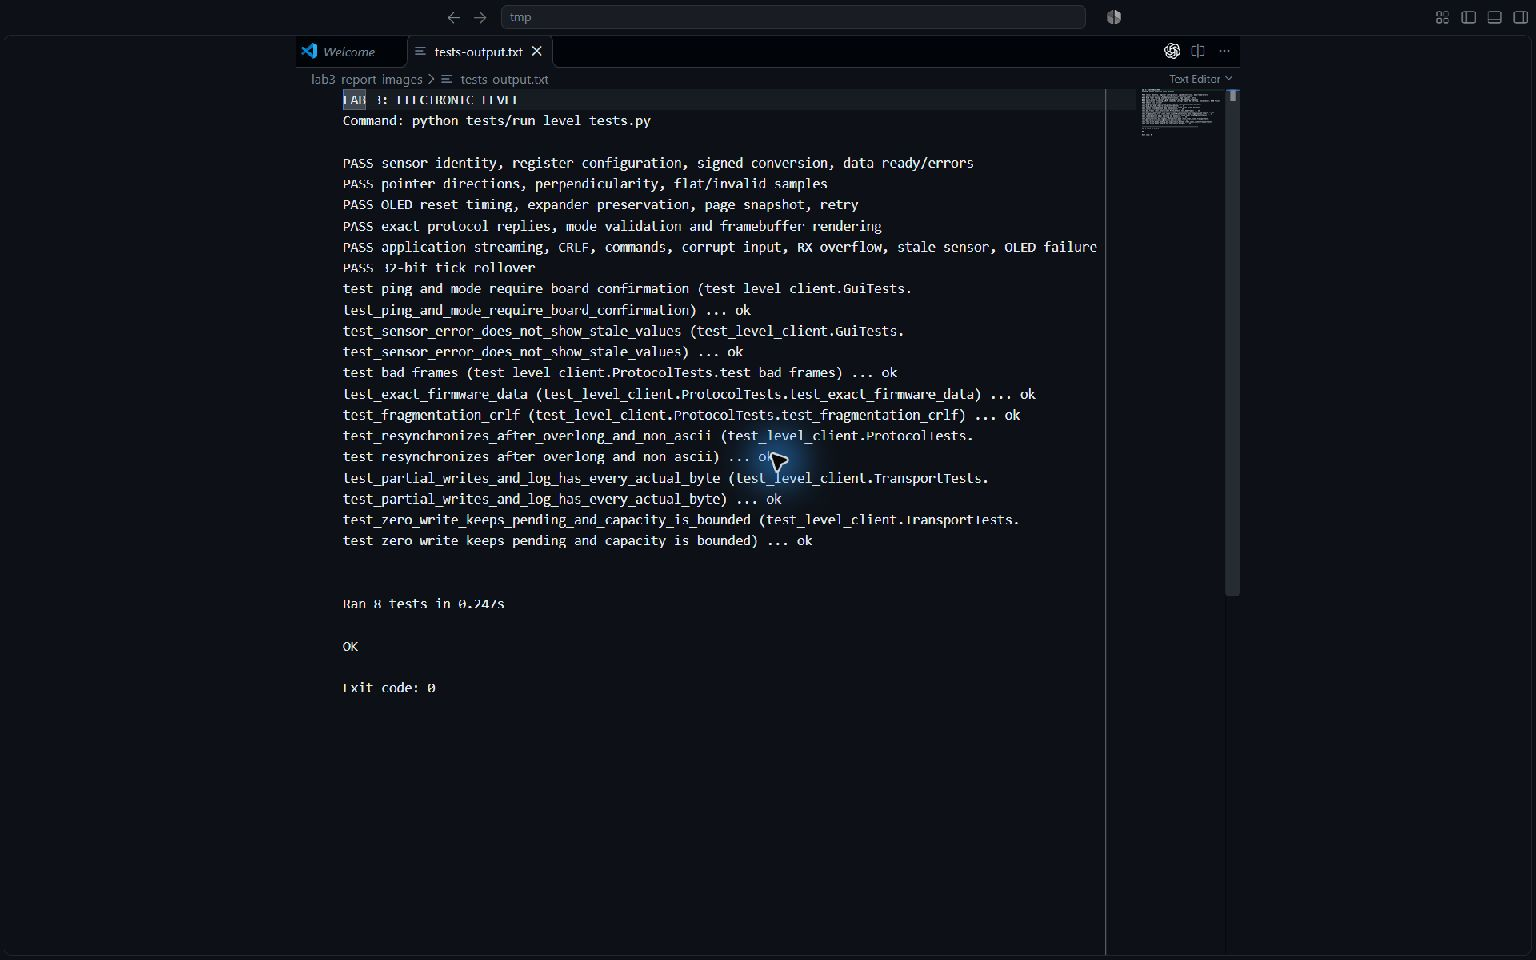
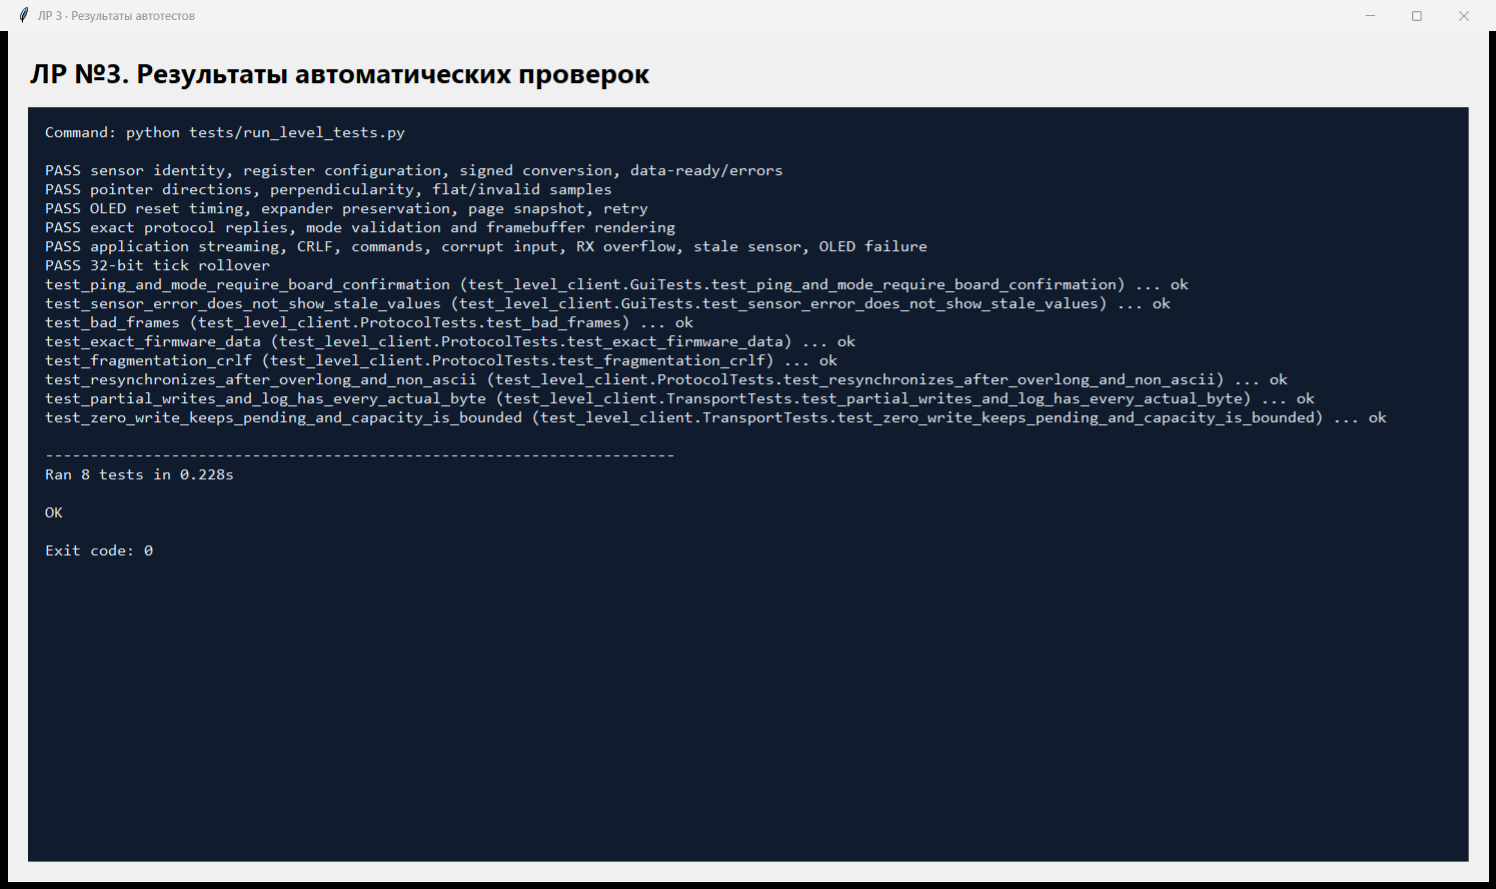
Replace lab 3 screenshots with sharp captures without cursor

Changed region(s): [[0.0, 0.0, 1.0, 1.0], [0.2152, 0.6682, 0.3075, 0.7289], [0.2152, 0.6074, 0.3382, 0.6378]]

diff --git a/docs/LAB3_SCREENSHOTS.md b/docs/LAB3_SCREENSHOTS.md
@@ -12,11 +12,11 @@
 
 Рисунок 2. Окно клиента в режиме HORIZ.
 
-![Режим HORIZ](images/lab3/02-client-horiz-demo.png)
+![Режим HORIZ](images/lab3/02-client-horiz.png)
 
 Рисунок 3. Окно клиента в режиме ARROW.
 
-![Режим ARROW](images/lab3/03-client-arrow-demo.png)
+![Режим ARROW](images/lab3/03-client-arrow.png)
 
 ## Тесты
 
